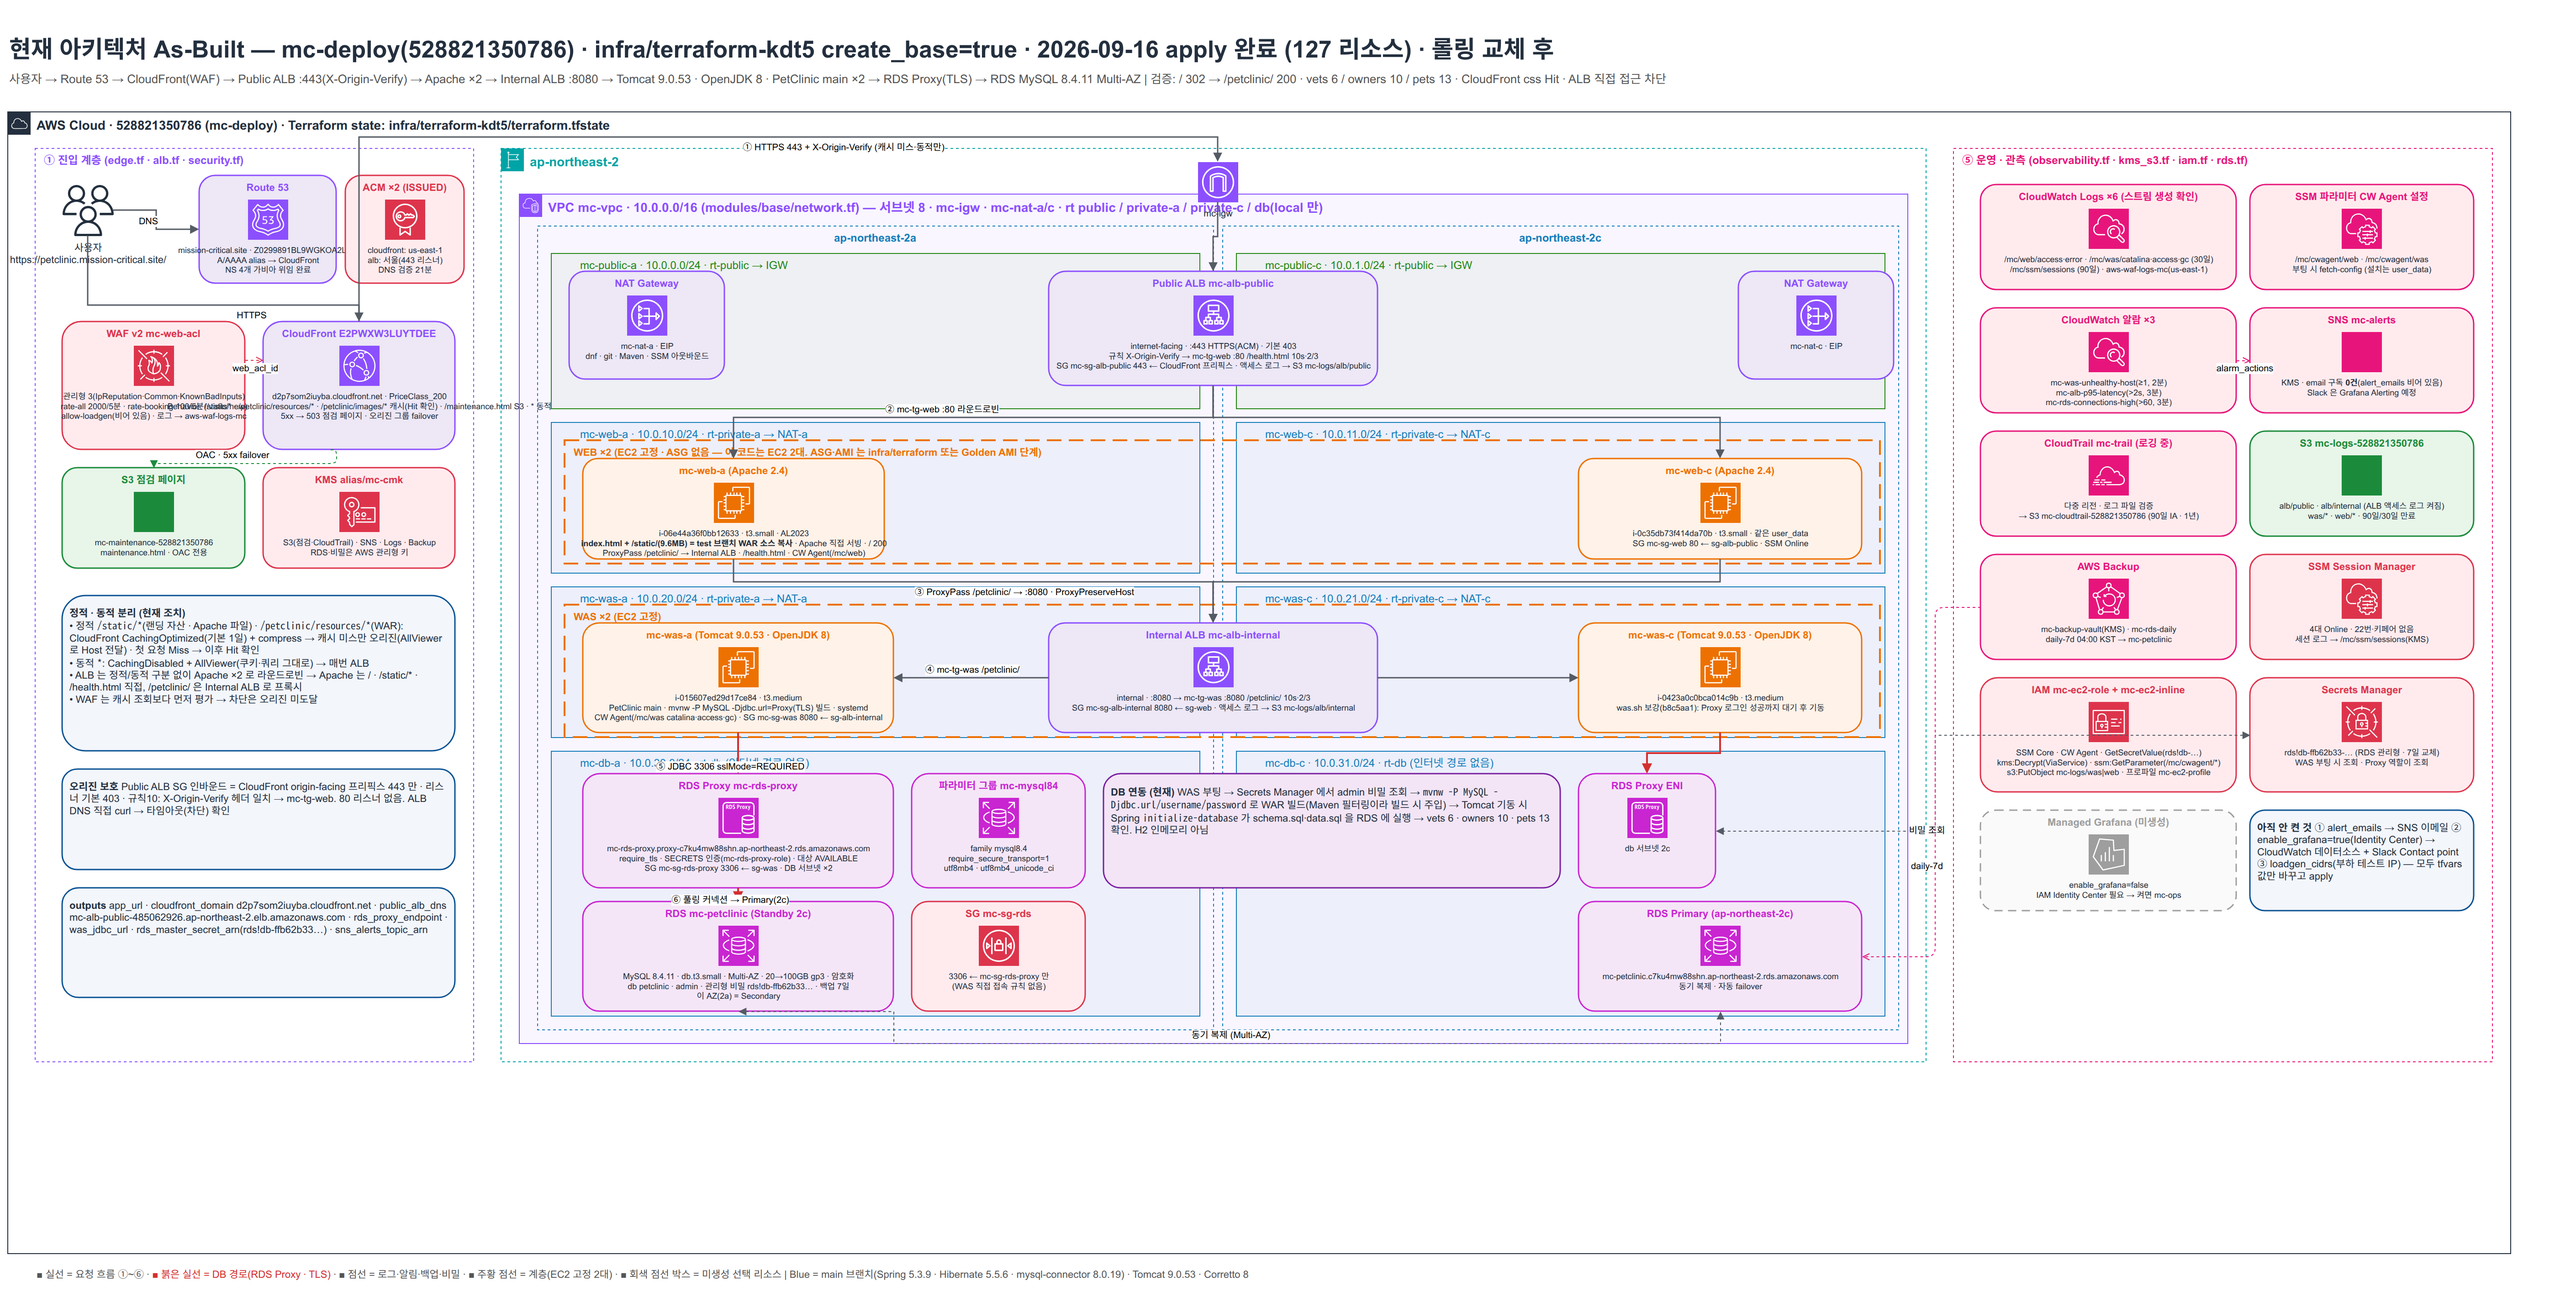
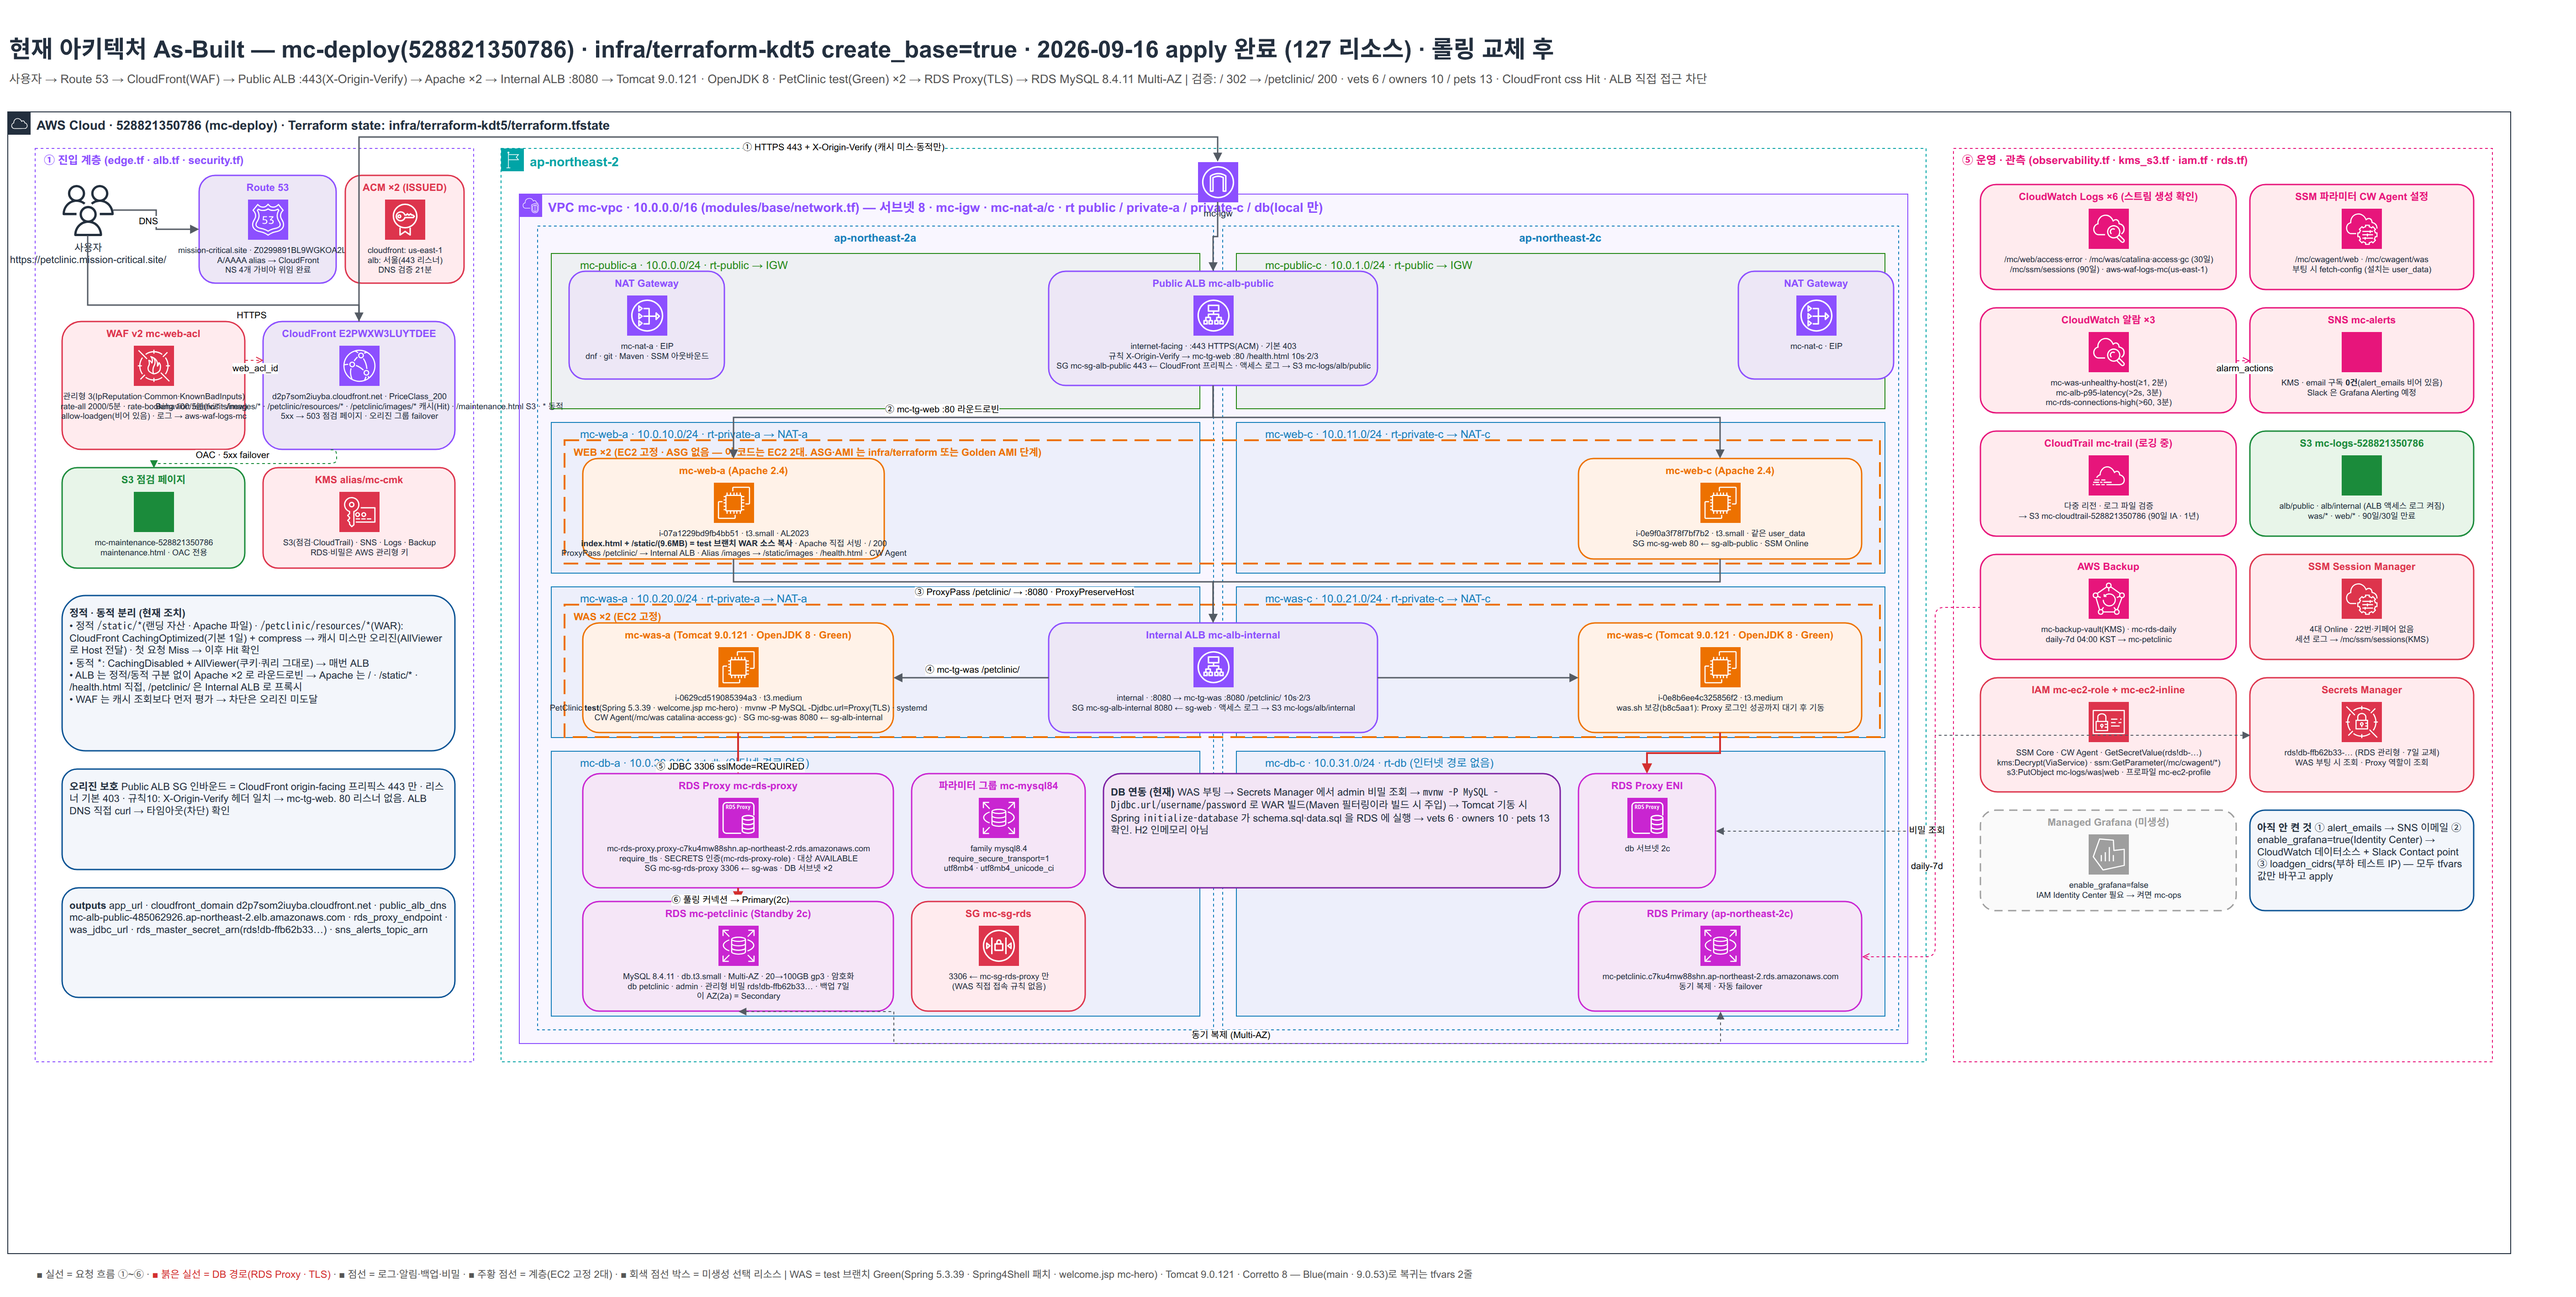
docs: As-Built — WAS Green(test · Tomcat 9.0.121 · Spring 5.3.39) 전환, /images Alias·캐시, 정적 파일 무효화 절차, 인스턴스 ID 갱신

diff --git a/docs/architecture-mc-deploy-asbuilt.py b/docs/architecture-mc-deploy-asbuilt.py
@@ -73,7 +73,7 @@ class D:
 
 d = D("mc-deploy As-Built (2026-09-16)", 2820, 1420)
 d.text("title", "현재 아키텍처 As-Built — mc-deploy(528821350786) · infra/terraform-kdt5 create_base=true · 2026-09-16 apply 완료 (127 리소스) · 롤링 교체 후", 40, 20, 2400, 40, size=26, bold=True)
-d.text("subtitle", "사용자 → Route 53 → CloudFront(WAF) → Public ALB :443(X-Origin-Verify) → Apache ×2 → Internal ALB :8080 → Tomcat 9.0.53 · OpenJDK 8 · PetClinic main ×2 → RDS Proxy(TLS) → RDS MySQL 8.4.11 Multi-AZ  |  검증: / 302 → /petclinic/ 200 · vets 6 / owners 10 / pets 13 · CloudFront css Hit · ALB 직접 접근 차단",
+d.text("subtitle", "사용자 → Route 53 → CloudFront(WAF) → Public ALB :443(X-Origin-Verify) → Apache ×2 → Internal ALB :8080 → Tomcat 9.0.121 · OpenJDK 8 · PetClinic test(Green) ×2 → RDS Proxy(TLS) → RDS MySQL 8.4.11 Multi-AZ  |  검증: / 302 → /petclinic/ 200 · vets 6 / owners 10 / pets 13 · CloudFront css Hit · ALB 직접 접근 차단",
        40, 60, 2500, 30, size=13, color="#555555")
 d.v("cloud", "AWS Cloud · 528821350786 (mc-deploy) · Terraform state: infra/terraform-kdt5/terraform.tfstate", STY["cloud"], 40, 110, 2740, 1250)
 
@@ -83,7 +83,7 @@ d.v("user", "사용자<br>https://petclinic.mission-critical.site/", f"sketch=0;
 d.svc("r53", "Route 53", "mission-critical.site · Z0299891BL9WGKOA2LW9<br>A/AAAA alias → CloudFront<br>NS 4개 가비아 위임 완료", "route_53", "net", 250, 180, w=150)
 d.svc("acm", "ACM ×2 (ISSUED)", "cloudfront: us-east-1<br>alb: 서울(443 리스너)<br>DNS 검증 21분", "certificate_manager", "sec", 410, 180, w=130)
 d.svc("waf", "WAF v2 mc-web-acl", "관리형 3(IpReputation·Common·KnownBadInputs)<br>rate-all 2000/5분 · rate-booking 100/5분(/visits/new)<br>allow-loadgen(비어 있음) · 로그 → aws-waf-logs-mc", "waf", "sec", 100, 340, w=200, h=140)
-d.svc("cf", "CloudFront E2PWXW3LUYTDEE", "d2p7som2iuyba.cloudfront.net · PriceClass_200<br>Behavior: /static/* · /petclinic/resources/* · /petclinic/images/* 캐시(Hit 확인) · /maintenance.html S3 · * 동적<br>5xx → 503 점검 페이지 · 오리진 그룹 failover", "cloudfront", "net", 320, 340, w=210, h=140)
+d.svc("cf", "CloudFront E2PWXW3LUYTDEE", "d2p7som2iuyba.cloudfront.net · PriceClass_200<br>Behavior: /static/* · /images/* · /petclinic/resources/* · /petclinic/images/* 캐시(Hit) · /maintenance.html S3 · * 동적<br>5xx → 503 점검 페이지 · 오리진 그룹 failover", "cloudfront", "net", 320, 340, w=210, h=140)
 d.svc("s3-maint", "S3 점검 페이지", "mc-maintenance-528821350786<br>maintenance.html · OAC 전용", "simple_storage_service", "stor", 100, 500, w=200, h=110)
 d.svc("kms", "KMS alias/mc-cmk", "S3(점검·CloudTrail) · SNS · Logs · Backup<br>RDS·비밀은 AWS 관리형 키", "key_management_service", "sec", 320, 500, w=210, h=110)
 d.note("edge-how", "<b>정적 · 동적 분리 (현재 조치)</b><br>• 정적 <code>/static/*</code>(랜딩 자산 · Apache 파일) · <code>/petclinic/resources/*</code>(WAR): CloudFront CachingOptimized(기본 1일) + compress → 캐시 미스만 오리진(AllViewer 로 Host 전달) · 첫 요청 Miss → 이후 Hit 확인<br>• 동적 <code>*</code>: CachingDisabled + AllViewer(쿠키·쿼리 그대로) → 매번 ALB<br>• ALB 는 정적/동적 구분 없이 Apache ×2 로 라운드로빈 → Apache 는 / · /static/* · /health.html 직접, /petclinic/ 은 Internal ALB 로 프록시<br>• WAF 는 캐시 조회보다 먼저 평가 → 차단은 오리진 미도달", 100, 640, 430, 170)
@@ -106,12 +106,12 @@ d.svc("nat-a", "NAT Gateway", "mc-nat-a · EIP<br>dnf · git · Maven · SSM 아
 d.svc("alb-pub", "Public ALB mc-alb-public", "internet-facing · :443 HTTPS(ACM) · 기본 403<br>규칙 X-Origin-Verify → mc-tg-web :80 /health.html 10s·2/3<br>SG mc-sg-alb-public 443 ← CloudFront 프리픽스 · 액세스 로그 → S3 mc-logs/alb/public", "application_load_balancer", "net", 1180, 285, w=360, h=125)
 d.svc("nat-c", "NAT Gateway", "mc-nat-c · EIP", "nat_gateway", "net", 1935, 285, w=170)
 d.v("web-tier", "WEB ×2 (EC2 고정 · ASG 없음 — 이 코드는 EC2 2대. ASG·AMI 는 infra/terraform 또는 Golden AMI 단계)", "fillColor=none;strokeColor=#ED7100;dashed=1;dashPattern=8 4;strokeWidth=2;verticalAlign=top;align=left;spacingLeft=8;fontStyle=1;fontSize=11;fontColor=#ED7100;whiteSpace=wrap;html=1;" + FONT, 650, 470, 1440, 135)
-d.svc("web-a", "mc-web-a (Apache 2.4)", "i-06e44a36f0bb12633 · t3.small · AL2023<br><b>index.html + /static/(9.6MB) = test 브랜치 WAR 소스 복사</b> · Apache 직접 서빙 · / 200<br>ProxyPass /petclinic/ → Internal ALB · /health.html · CW Agent(/mc/web)", "ec2", "compute", 670, 490, w=330, h=110)
-d.svc("web-c", "mc-web-c (Apache 2.4)", "i-0c35db73f414da70b · t3.small · 같은 user_data<br>SG mc-sg-web 80 ← sg-alb-public · SSM Online", "ec2", "compute", 1760, 490, w=310, h=110)
+d.svc("web-a", "mc-web-a (Apache 2.4)", "i-07a1229bd9fb4bb51 · t3.small · AL2023<br><b>index.html + /static/(9.6MB) = test 브랜치 WAR 소스 복사</b> · Apache 직접 서빙 · / 200<br>ProxyPass /petclinic/ → Internal ALB · Alias /images → /static/images · /health.html · CW Agent", "ec2", "compute", 670, 490, w=330, h=110)
+d.svc("web-c", "mc-web-c (Apache 2.4)", "i-0e9f0a3f78f7bf7b2 · t3.small · 같은 user_data<br>SG mc-sg-web 80 ← sg-alb-public · SSM Online", "ec2", "compute", 1760, 490, w=310, h=110)
 d.v("was-tier", "WAS ×2 (EC2 고정)", "fillColor=none;strokeColor=#ED7100;dashed=1;dashPattern=8 4;strokeWidth=2;verticalAlign=top;align=left;spacingLeft=8;fontStyle=1;fontSize=11;fontColor=#ED7100;whiteSpace=wrap;html=1;" + FONT, 650, 650, 1440, 145)
-d.svc("was-a", "mc-was-a (Tomcat 9.0.53 · OpenJDK 8)", "i-015607ed29d17ce84 · t3.medium<br>PetClinic main · mvnw -P MySQL -Djdbc.url=Proxy(TLS) 빌드 · systemd<br>CW Agent(/mc/was catalina·access·gc) · SG mc-sg-was 8080 ← sg-alb-internal", "ec2", "compute", 670, 670, w=340, h=120)
+d.svc("was-a", "mc-was-a (Tomcat 9.0.121 · OpenJDK 8 · Green)", "i-0629cd519085394a3 · t3.medium<br>PetClinic <b>test</b>(Spring 5.3.39 · welcome.jsp mc-hero) · mvnw -P MySQL -Djdbc.url=Proxy(TLS) · systemd<br>CW Agent(/mc/was catalina·access·gc) · SG mc-sg-was 8080 ← sg-alb-internal", "ec2", "compute", 670, 670, w=340, h=120)
 d.svc("alb-int", "Internal ALB mc-alb-internal", "internal · :8080 → mc-tg-was :8080 /petclinic/ 10s·2/3<br>SG mc-sg-alb-internal 8080 ← sg-web · 액세스 로그 → S3 mc-logs/alb/internal", "application_load_balancer", "net", 1180, 670, w=360, h=120)
-d.svc("was-c", "mc-was-c (Tomcat 9.0.53 · OpenJDK 8)", "i-0423a0c0bca014c9b · t3.medium<br>was.sh 보강(b8c5aa1): Proxy 로그인 성공까지 대기 후 기동", "ec2", "compute", 1760, 670, w=310, h=120)
+d.svc("was-c", "mc-was-c (Tomcat 9.0.121 · OpenJDK 8 · Green)", "i-0e8b6ee4c325856f2 · t3.medium<br>was.sh 보강(b8c5aa1): Proxy 로그인 성공까지 대기 후 기동", "ec2", "compute", 1760, 670, w=310, h=120)
 d.svc("proxy", "RDS Proxy mc-rds-proxy", "mc-rds-proxy.proxy-c7ku4mw88shn.ap-northeast-2.rds.amazonaws.com<br>require_tls · SECRETS 인증(mc-rds-proxy-role) · 대상 AVAILABLE<br>SG mc-sg-rds-proxy 3306 ← sg-was · DB 서브넷 ×2", "rds_proxy", "db", 670, 835, w=340, h=125)
 d.svc("pg", "파라미터 그룹 mc-mysql84", "family mysql8.4<br>require_secure_transport=1<br>utf8mb4 · utf8mb4_unicode_ci", "rds", "db", 1030, 835, w=190, h=125)
 d.svc("rds", "RDS mc-petclinic (Standby 2c)", "MySQL 8.4.11 · db.t3.small · Multi-AZ · 20→100GB gp3 · 암호화<br>db petclinic · admin · 관리형 비밀 rds!db-ffb62b33… · 백업 7일<br>이 AZ(2a) = Secondary", "rds", "db", 670, 975, w=340, h=120)
@@ -155,7 +155,7 @@ d.edge("e9", "grp-rds", "grp-rds-c", EDGE_BI, label="동기 복제 (Multi-AZ)", 
 d.edge("e10", "grp-secrets", "grp-proxy-c", EDGE_BI, label="비밀 조회", pts=[(2150, 792), (2150, 897)], exit=(0, 0.5), entry=(1, 0.5), lx=0.3)
 d.edge("e11", "grp-alarms", "grp-sns", "edgeStyle=orthogonalEdgeStyle;html=1;endArrow=open;strokeColor=#E7157B;dashed=1;" + FONT, label="alarm_actions", exit=(1, 0.5), entry=(0, 0.5), ly=-8)
 d.edge("e12", "grp-backup", "grp-rds-c", "edgeStyle=orthogonalEdgeStyle;html=1;endArrow=open;strokeColor=#E7157B;dashed=1;" + FONT, label="daily-7d", pts=[(2150, 652), (2150, 1035)], exit=(0, 0.5), entry=(1, 0.5), lx=0.3)
-d.text("legend", "■ 실선 = 요청 흐름 ①~⑥ · <span style='color:#D32F2F'>■ 붉은 실선 = DB 경로(RDS Proxy · TLS)</span> · ■ 점선 = 로그·알림·백업·비밀 · ■ 주황 점선 = 계층(EC2 고정 2대) · ■ 회색 점선 박스 = 미생성 선택 리소스  |  Blue = main 브랜치(Spring 5.3.9 · Hibernate 5.5.6 · mysql-connector 8.0.19) · Tomcat 9.0.53 · Corretto 8",
+d.text("legend", "■ 실선 = 요청 흐름 ①~⑥ · <span style='color:#D32F2F'>■ 붉은 실선 = DB 경로(RDS Proxy · TLS)</span> · ■ 점선 = 로그·알림·백업·비밀 · ■ 주황 점선 = 계층(EC2 고정 2대) · ■ 회색 점선 박스 = 미생성 선택 리소스  |  WAS = test 브랜치 Green(Spring 5.3.39 · Spring4Shell 패치 · welcome.jsp mc-hero) · Tomcat 9.0.121 · Corretto 8 — Blue(main · 9.0.53)로 복귀는 tfvars 2줄",
        70, 1370, 2600, 24, size=11, color="#555555")
 OUT = os.path.join(os.path.dirname(os.path.abspath(__file__)), "architecture-mc-deploy-asbuilt.drawio")
 d.write(OUT)

diff --git a/docs/notion-request-flow.md b/docs/notion-request-flow.md
@@ -58,5 +58,5 @@ curl -s -o /dev/null -w "%{http_code}\n" https://petclinic.mission-critical.site
 curl -s -o /dev/null -w "%{http_code} x-cache=%header{x-cache}\n" https://petclinic.mission-critical.site/petclinic/resources/css/petclinic.css   # Hit
 curl -s https://petclinic.mission-critical.site/petclinic/vets.json | head -c 120                                  # DB 데이터
 curl -sk -m 8 -o /dev/null -w "%{http_code}\n" https://mc-alb-public-485062926.ap-northeast-2.elb.amazonaws.com/  # 타임아웃 = 차단
-aws ssm start-session --target i-015607ed29d17ce84 --profile mc-deploy       # WAS 접속 → grep vets /var/log/mc-userdata.log
+aws ssm start-session --target i-0629cd519085394a3 --profile mc-deploy       # WAS 접속 → grep vets /var/log/mc-userdata.log
 ```
